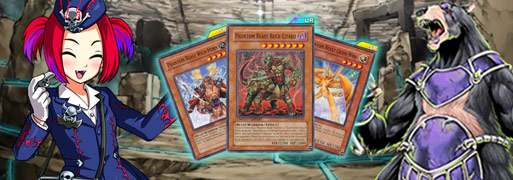
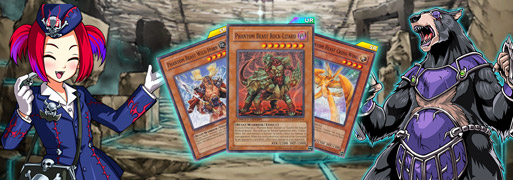
Card trader thumbnail article + event thumbnail update

diff --git a/_posts/content/news/2018/02/2018-02-23-in-game-update-feb-23.md b/_posts/content/news/2018/02/2018-02-23-in-game-update-feb-23.md
@@ -14,8 +14,8 @@ permalink: /news/february-2018/in-game-update-and-upcoming-changes/
 
 {% include heading.html title=page.title %}
 
-## February 23rd Update
-### By Yami Hammy
+### February 23rd Update
+#### By Yami Hammy
 
 As of the recent in-game news update, March is packed full of events and pending updates. There is no need to check your notifications, we have it all here!
 
@@ -29,9 +29,10 @@ March has so many new events and new Legendary Duelists. Be sure to check out th
 
 ---
 
-## February 1st Update
-### By Jonesy9027
-
+### February 1st Update
+#### By Jonesy9027
+  
+   
 #### Teaser Updates!
 * On January 29th, Konami released their list of upcoming events. Included are the KC Cup announcement, the Chazz-a-thon, the return of Dr. Vellian Crowler, a teaser for a new Legendary Character, and much more!
 ![Upcoming](https://i.imgur.com/43tELd0.png)

diff --git a/_posts/content/news/2018/03/2018-03-07-card-trader-inventory-updated.md b/_posts/content/news/2018/03/2018-03-07-card-trader-inventory-updated.md
@@ -1,9 +1,9 @@
 ---
 layout: blog
 date: 2018-03-07
-title: Card Trader Update (March) 
+title: Card Trader Update - March
 author: Yami Hammy
-image: /img/content/news/2018/03/card-trader-update/thumbnail.png
+image: /img/content/news/2018/03/card-trader-update/thumbnail.jpg
 category: news
 comments: true
 description: The Card Trader's inventory has been updated with some new additions to his card pool. Check here for a review by the Top Player Council!
